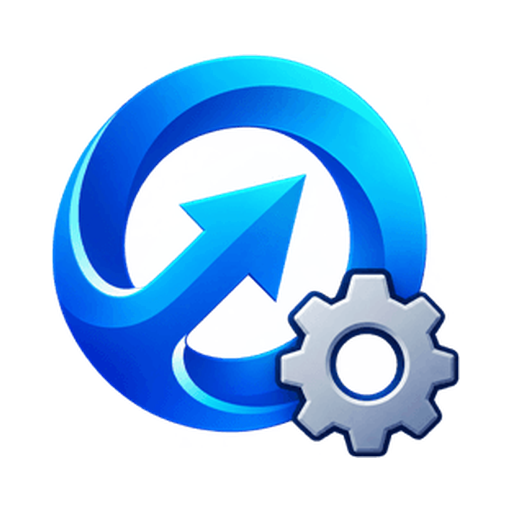
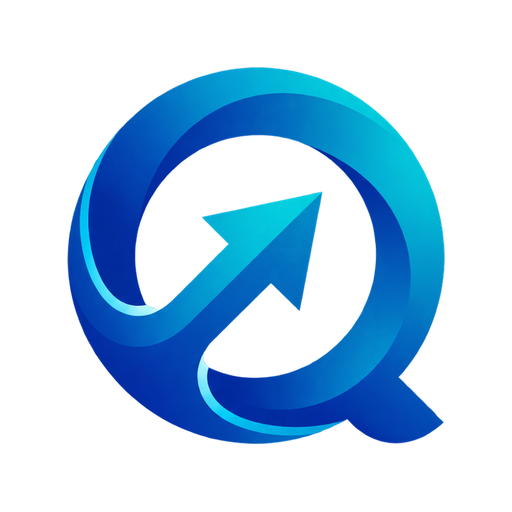
fix(brand): знак QEVO без шестерёнки — фавикон, иконки и знак на экранах входа как до #4671 (просьба заказчика 09.11)

diff --git a/frontend/index.html b/frontend/index.html
@@ -10,13 +10,13 @@
     <meta name="viewport" content="width=device-width, initial-scale=1.0, viewport-fit=cover, interactive-widget=resizes-content" />
     <title>QEVO</title>
 
-    <!-- Знак вкладки — знак QEVO без букв (просьба заказчика). Только png: знак растровый,
+    <!-- Знак вкладки — знак QEVO без букв и без шестерёнки (просьба заказчика, 09.11). Только png: знак растровый,
          svg-версии у него нет. Собирается scripts/brand-assets.py из исходника.
          Два размера: 32 для вкладки, 64 для закладок и панели задач.
          apple-touch-icon отдельно: iOS не берёт ни манифест, ни мелкие иконки. -->
-    <link rel="icon" href="/favicon-32.png?v=2" sizes="32x32" type="image/png" />
-    <link rel="icon" href="/favicon-64.png?v=2" sizes="64x64" type="image/png" />
-    <link rel="apple-touch-icon" href="/apple-touch-icon.png?v=2" />
+    <link rel="icon" href="/favicon-32.png?v=3" sizes="32x32" type="image/png" />
+    <link rel="icon" href="/favicon-64.png?v=3" sizes="64x64" type="image/png" />
+    <link rel="apple-touch-icon" href="/apple-touch-icon.png?v=3" />
     <link rel="manifest" href="/manifest.json" />
     <!-- Цвет строки браузера на телефоне — фон страницы своей темы: светлый бежевый или
          тёмно-синий. Прежний почти чёрный был под неоновый знак старого бренда. -->

diff --git a/frontend/src/components/Logo.tsx b/frontend/src/components/Logo.tsx
@@ -13,7 +13,7 @@ export function Logo({ size = 32, withWord = false }: { size?: number; withWord?
   const mark = (
     <img
       className="logo-mark"
-      src="/logo-mark.png?v=2"
+      src="/logo-mark.png?v=3"
       width={size}
       height={size}
       alt=""
